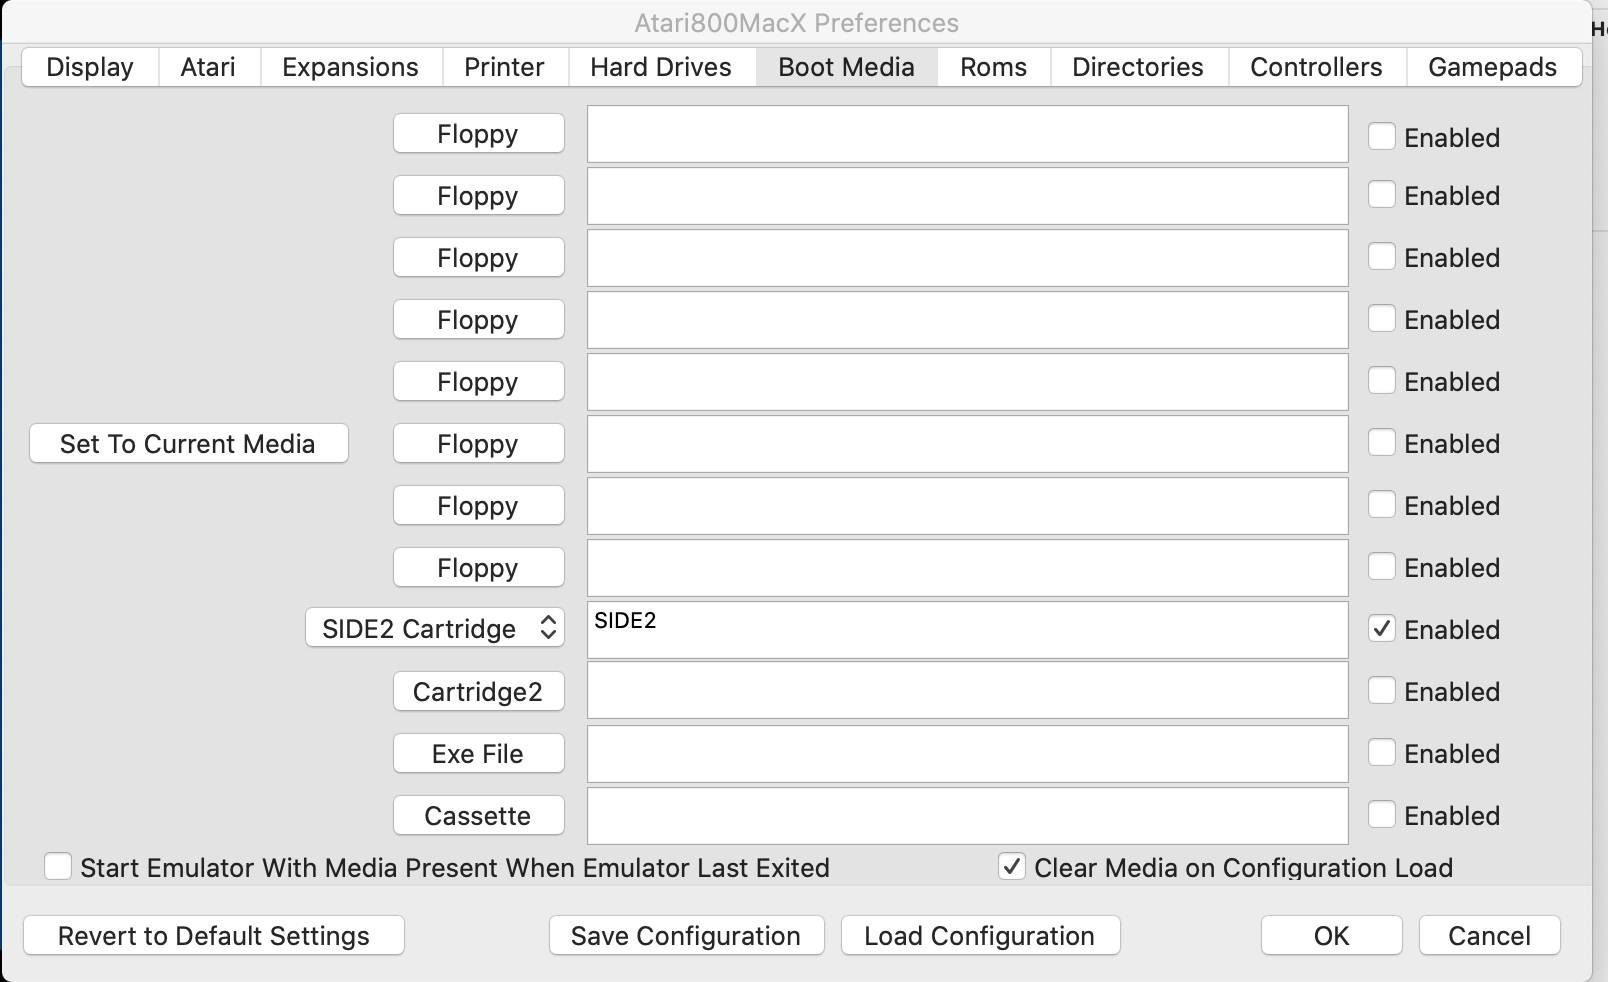
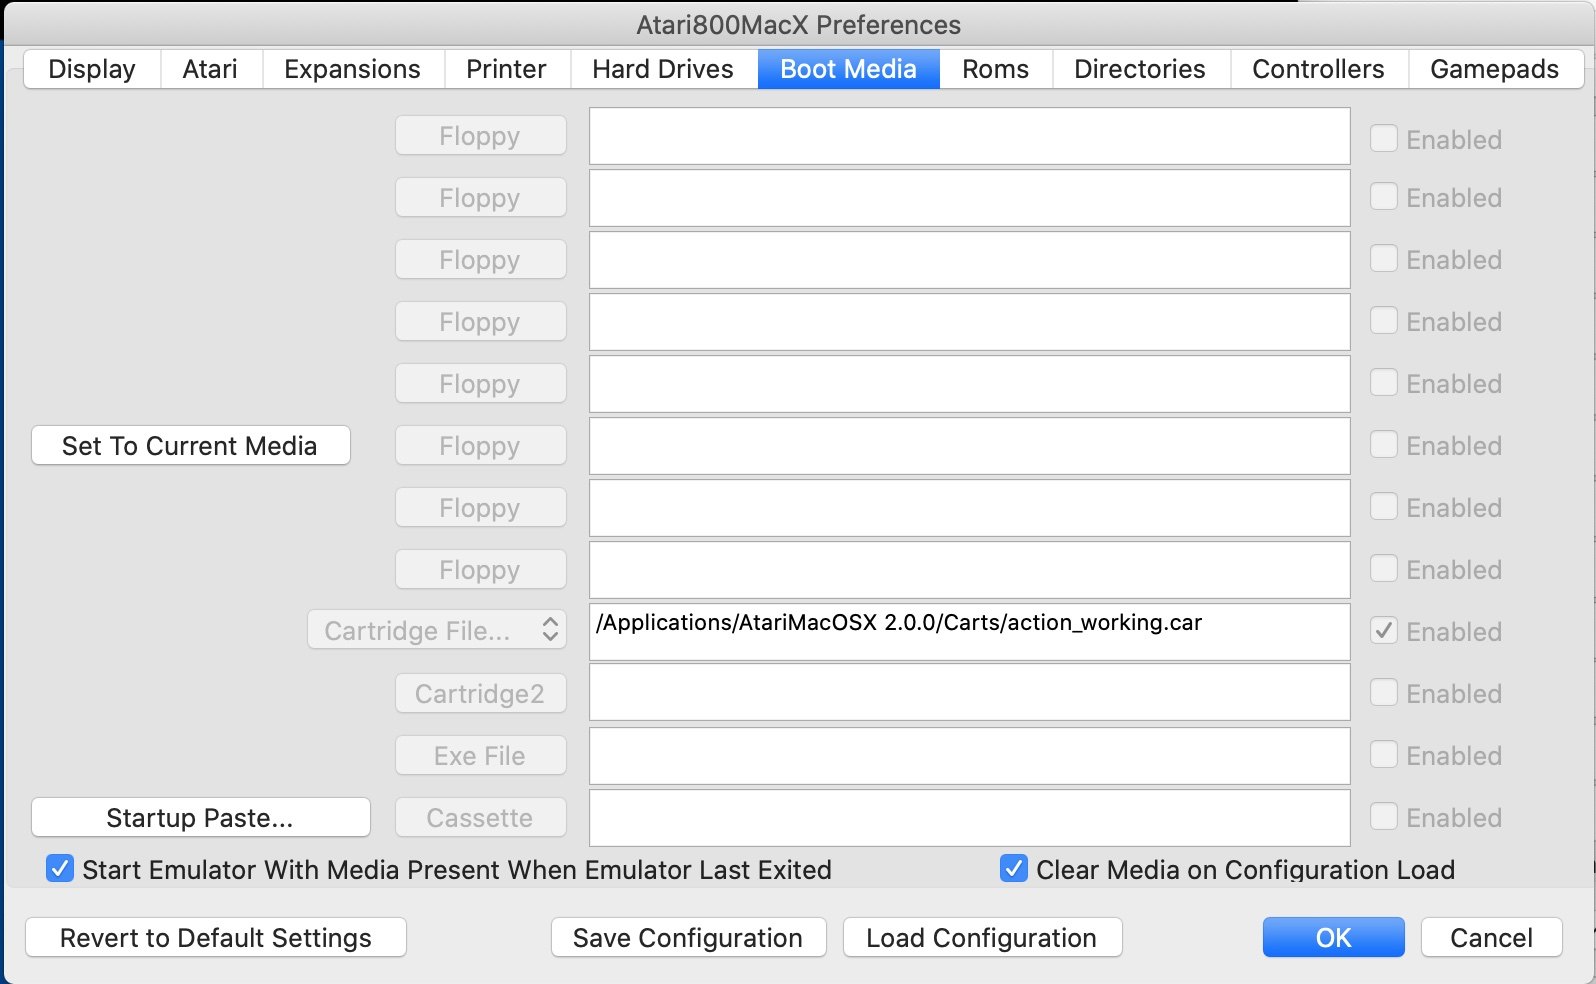
Finished Copy Paste Help

diff --git a/atari800-MacOSX/src/Atari800MacX/Atari800MacX Help/CopyPaste.html b/atari800-MacOSX/src/Atari800MacX/Atari800MacX Help/CopyPaste.html
@@ -182,9 +182,20 @@ are presented in the following table:<br><br>
         <td>f4</td>
     </tr>
     </tbody>
-</table>
+</table><br><br>
 
-<br><br><big style="text-decoration: underline;"><big>
+You may also insert delays into the paste string by using an escape sequence
+of the following form:<br><br>
+
+<tt>{delay-t}</tt><br><br>
+
+Where t is the number of emulator ticks to delay.  In NTSC mode is 1/60 of
+a second, and in PAL mode it is 1/50 of a second.  So to delay for one
+second in NTSC mode, you would use an escape sequence of:<br><br>
+
+<tt>{delay-60}</tt><br><br>
+
+<big style="text-decoration: underline;"><big>
     
 Copying Text<br></big></big><br>
 
@@ -206,5 +217,36 @@ emulated.<br>
 Escaping of characters is turned on by default, this may be toggled on/off
 by using the "Escape ATASCII on copy" menu item in the Edit menu.  When
 escaping is off, graphical ATASCII characters will be replaced by spaces.
-<big><big><span style="text-decoration: underline;"></span></big></big><br>
+<br><br>
+
+<big style="text-decoration: underline;"><big>
+    
+Pasting Text Automation<br></big></big><br>
+
+One of the ways to automate the emualtor is by using a feature which allows
+you to specify a string to be pasted to the emulatore when the application
+starts.  This option is accessed from the <a href="BootMediaTab.html">Boot
+Media Tab</a> of Preferences.  On that tab, there is a button named
+"Startup Paste...".  When it is pressed, you are presented with the following
+dialog box:<br><br>
+
+<img src="StartupString.jpg" title="" alt="" height="262" width="544"><br><br>
+    
+You may enter the string to be pasted in the text box, and the checkbox is
+used to enable/disable the paste operation on emulation startup.<br><br>
+
+Another way to use this feature for automation is to use AppleScript.  The
+following is an example AppleScript to paste a string into the
+emulator:<br>
+
+<pre><code>
+set the clipboard to "String to Paste to Emulator"
+
+tell application "System Events" to tell process "Atari800MacX"
+    tell menu bar item "Edit" of menu bar 1
+        click menu item "Paste" of menu 1
+    end tell
+end tell
+</code></pre>
+
 </body></html>

diff --git a/atari800-MacOSX/src/Atari800MacX/Atari800MacX Help/introduction.html b/atari800-MacOSX/src/Atari800MacX/Atari800MacX Help/introduction.html
@@ -228,8 +228,11 @@ emulator. &nbsp;The Unrecoverable Error Dialog is show below.<br>
 providing a working alternative to H: for
 SpartaDOSX.</li>
 <li>Added enhanced copy and paste, so that ATASCII
-    graphics characters may be copied and pasted
-    as well, along with support for automation.</li>
+graphics characters may be copied and pasted
+as well, along with support for automation with delays.</li>
+<li>Added ability to specify a string that is
+    pasted automatically at the startup of the
+    emulator.</li>
 </ul>
 
 <h4>Bug Fixes (in version 5.5.0):</h4>

diff --git a/atari800-MacOSX/src/Atari800MacX/Atari800MacX Help/BootMediaTab.html b/atari800-MacOSX/src/Atari800MacX/Atari800MacX Help/BootMediaTab.html
@@ -70,6 +70,11 @@ a special cartridge such as SIDE2 or the built in
 BASIC cartridge for Atari 800.
 <br>
 <br>
+Staring with version 5.5, there is also a button
+to allow you to paste a string of keypresses into
+the emulator when it starts.  The use of the
+"Startup String" button is disucssed in the
+<a href="CopyPaste.html">Copy Paste Help </a><br><br>
 <img src="BootMediaTab.jpg" title="" alt="" style="width: 754px; height: 513px;"><br>
 
 </body></html>

diff --git a/atari800-MacOSX/src/Atari800MacX/Atari800MacX Help/ReleaseHistory.html b/atari800-MacOSX/src/Atari800MacX/Atari800MacX Help/ReleaseHistory.html
@@ -25,7 +25,10 @@ Release History<br>
         SpartaDOSX.</li>
     <li>Added enhanced copy and paste, so that ATASCII
     graphics characters may be copied and pasted
-    as well, along with support for automation.</li>
+    as well, along with support for automation with delays.</li>
+    <li>Added ability to specify a string that is
+        pasted automatically at the startup of the
+        emulator.</li>
 </ul>
 
 &nbsp;&nbsp; Bugs Fixed:<br>
